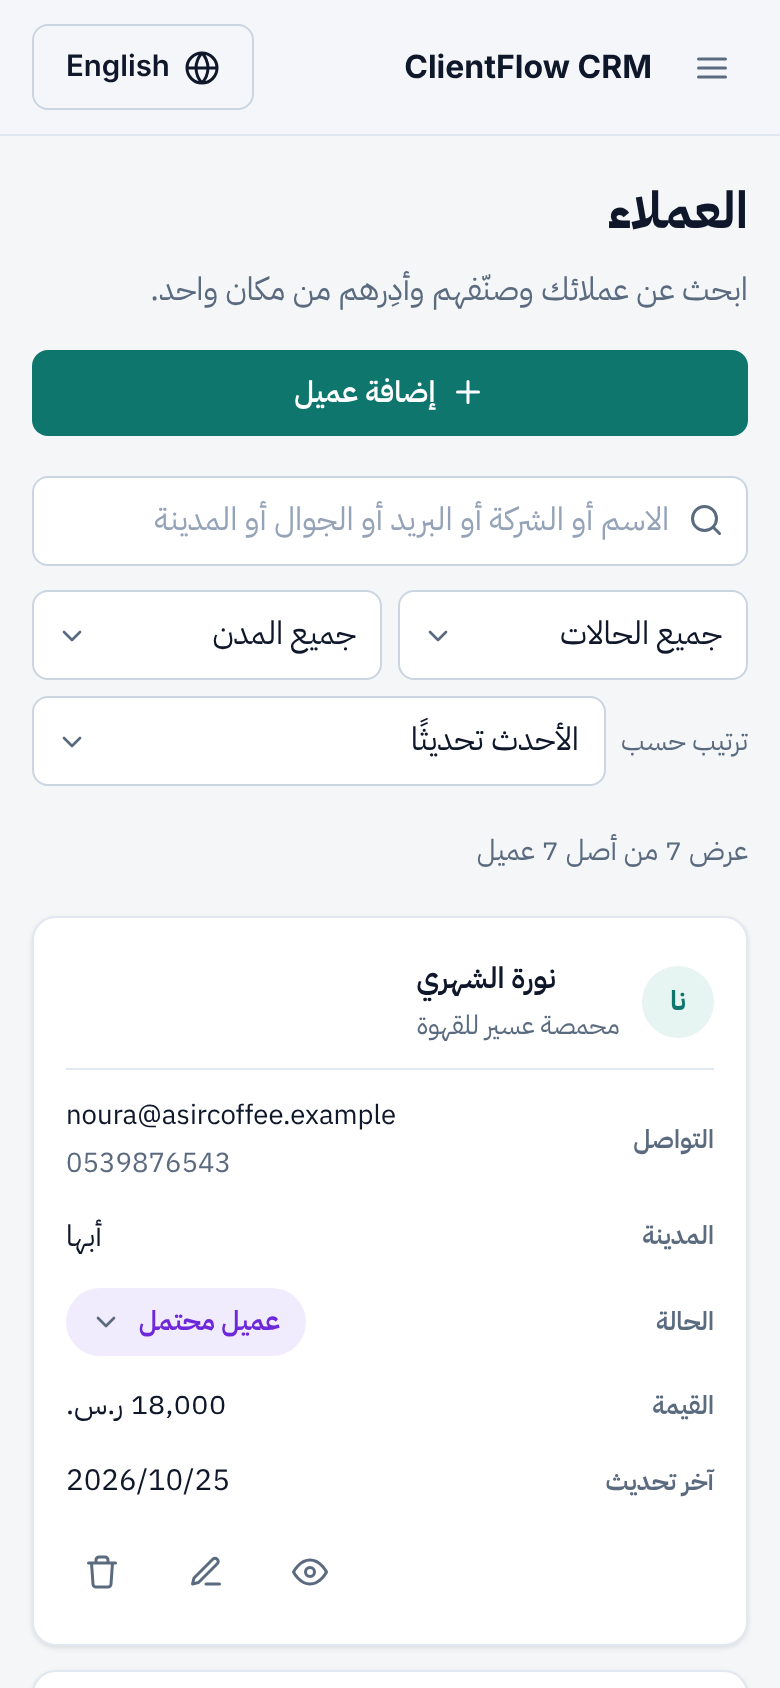
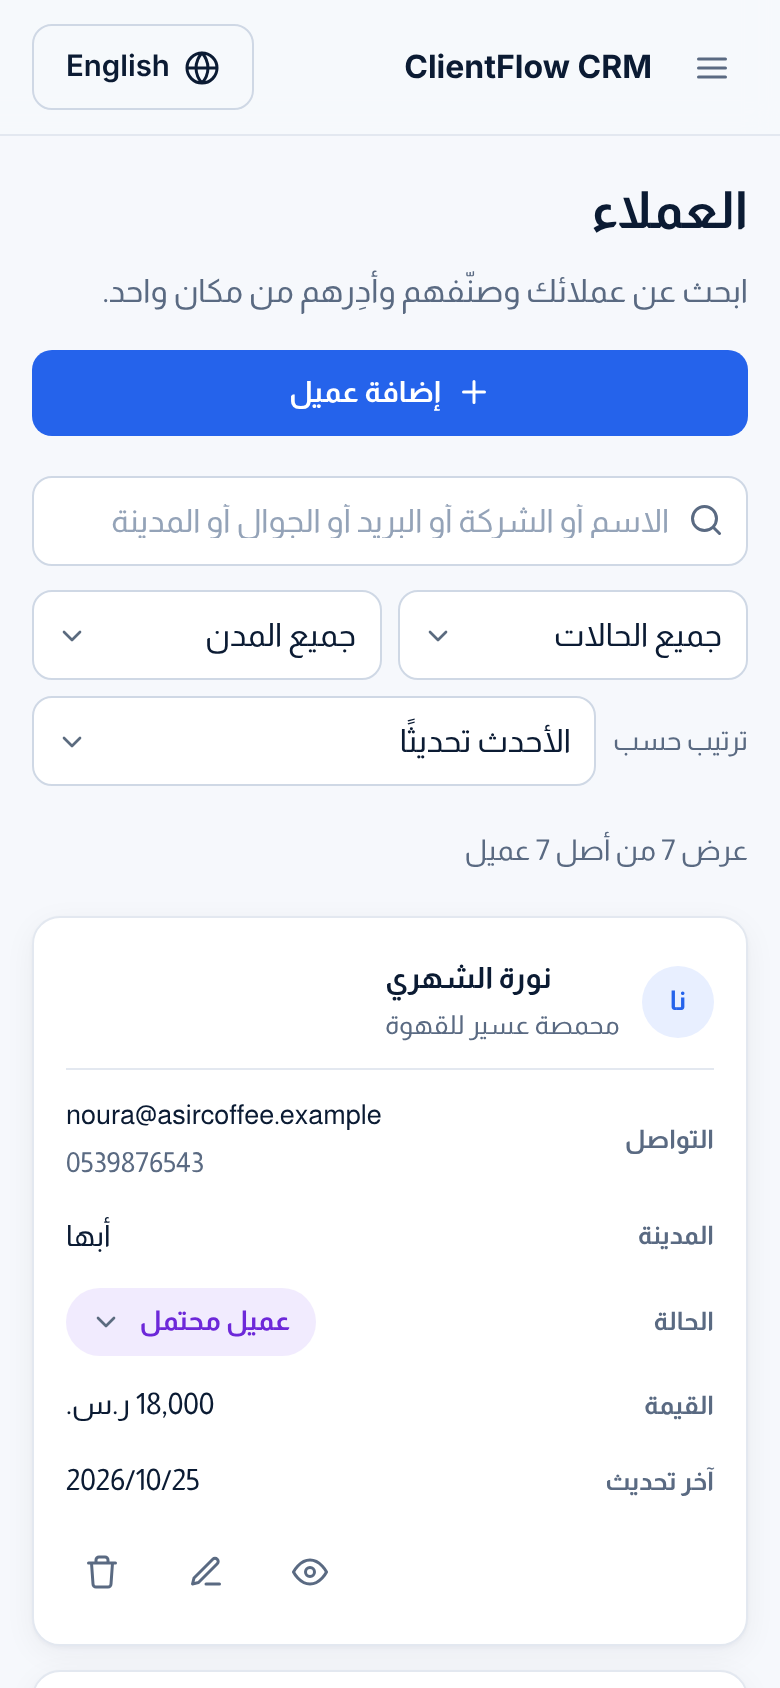
Restyle ClientFlow with the light blue business theme
Blue primary with a white sidebar, Almarai for Arabic, softer neutrals
and a filled headline tile on the dashboard; README screenshots and demo
GIFs regenerated.

diff --git a/src/index.css b/src/index.css
@@ -4,18 +4,20 @@
 
 :root {
   --font-latin: 'Inter', system-ui, -apple-system, 'Segoe UI', Roboto, 'Helvetica Neue', Arial, sans-serif;
-  --font-arabic: 'IBM Plex Sans Arabic', 'Noto Sans Arabic', 'Segoe UI', Tahoma, 'Geeza Pro', 'Arial', sans-serif;
+  --font-arabic: 'Almarai', 'Noto Sans Arabic', 'Segoe UI', Tahoma, 'Geeza Pro', 'Arial', sans-serif;
 
-  --bg: #f4f6f8;
+  --bg: #f6f8fc;
   --surface: #ffffff;
-  --surface-muted: #f8fafb;
-  --border: #e2e8f0;
-  --border-strong: #cbd5e1;
-  --text: #0f172a;
-  --text-muted: #5b6b7f;
-  --primary: #0f766e;
-  --primary-hover: #0d5f59;
-  --primary-soft: #e6f4f2;
+  --surface-muted: #f4f7fb;
+  --border: #e3e8f0;
+  --border-strong: #cfd8e5;
+  --text: #0b1b33;
+  --text-muted: #5a6a82;
+  --primary: #2563eb;
+  --primary-hover: #1d4ed8;
+  --primary-soft: #e8efff;
+  /* Navy wash used by the highlighted dashboard tile. */
+  --primary-deep: #1e3a8a;
   --danger: #c0262d;
   --danger-hover: #a11d23;
   --danger-soft: #fdecec;
@@ -30,9 +32,9 @@
   --inactive: #64748b;
   --inactive-soft: #eef1f5;
 
-  --radius: 12px;
-  --radius-sm: 8px;
-  --shadow: 0 1px 2px rgb(15 23 42 / 0.05), 0 1px 3px rgb(15 23 42 / 0.06);
+  --radius: 14px;
+  --radius-sm: 10px;
+  --shadow: 0 1px 2px rgb(16 24 40 / 0.04), 0 4px 16px rgb(16 24 40 / 0.05);
   --shadow-lg: 0 10px 30px rgb(15 23 42 / 0.16);
   --sidebar-width: 256px;
 
@@ -104,8 +106,9 @@ h1:focus, main:focus { outline: none; }
   inline-size: var(--sidebar-width);
   block-size: 100vh;
   padding: 1.25rem 1rem;
-  background: #0b2e2b;
-  color: #d7ebe8;
+  background: var(--surface);
+  color: var(--text-muted);
+  border-inline-end: 1px solid var(--border);
   flex-shrink: 0;
 }
 .sidebar__brand { display: flex; align-items: center; gap: 0.75rem; }
@@ -113,30 +116,28 @@ h1:focus, main:focus { outline: none; }
   display: grid; place-items: center;
   inline-size: 40px; block-size: 40px;
   border-radius: 10px;
-  background: #14b8a6; color: #04201d;
+  background: var(--primary); color: #fff;
   font-weight: 700; font-family: var(--font-latin);
 }
-.brand-name { font-weight: 700; color: #fff; font-family: var(--font-latin); }
-.brand-tagline { font-size: 0.78rem; color: #9cc5bf; }
+.brand-name { font-weight: 700; color: var(--text); font-family: var(--font-latin); }
+.brand-tagline { font-size: 0.78rem; color: var(--text-muted); }
 .icon-btn.sidebar__close { display: none; margin-inline-start: auto; color: inherit; }
 .nav-list { display: flex; flex-direction: column; gap: 0.25rem; }
 .nav-link {
   display: flex; align-items: center; gap: 0.75rem;
   padding: 0.65rem 0.85rem;
   border-radius: var(--radius-sm);
-  color: #d7ebe8;
+  color: var(--text-muted);
   text-decoration: none;
   font-weight: 500;
 }
-.nav-link:hover { background: rgb(255 255 255 / 0.08); }
+.nav-link:hover { background: var(--surface-muted); }
 .nav-link--active {
-  background: rgb(20 184 166 / 0.18);
-  color: #fff;
-  box-shadow: inset 3px 0 0 #14b8a6;
+  background: var(--primary-soft);
+  color: var(--primary-hover);
+  font-weight: 700;
 }
-/* The active indicator sits on the inline-start edge in both directions. */
-[dir='rtl'] .nav-link--active { box-shadow: inset -3px 0 0 #14b8a6; }
-.sidebar__note { margin-block-start: auto; font-size: 0.78rem; color: #9cc5bf; }
+.sidebar__note { margin-block-start: auto; font-size: 0.78rem; color: var(--text-muted); }
 
 .shell__main { flex: 1; min-inline-size: 0; display: flex; flex-direction: column; }
 
@@ -144,7 +145,7 @@ h1:focus, main:focus { outline: none; }
   position: sticky; inset-block-start: 0; z-index: 10;
   display: flex; align-items: center; gap: 0.75rem;
   padding: 0.75rem 1.5rem;
-  background: rgb(244 246 248 / 0.9);
+  background: rgb(246 248 252 / 0.9);
   backdrop-filter: blur(8px);
   border-block-end: 1px solid var(--border);
 }
@@ -243,8 +244,19 @@ h1:focus, main:focus { outline: none; }
 }
 .stat-card__icon {
   display: grid; place-items: center;
-  inline-size: 40px; block-size: 40px; border-radius: 10px;
+  inline-size: 40px; block-size: 40px; border-radius: 12px;
   background: var(--primary-soft); color: var(--primary);
+}
+/* The headline figure gets the filled treatment; the rest stay plain cards. */
+.stats-grid > .stat-card:first-child {
+  background: linear-gradient(135deg, var(--primary), var(--primary-deep));
+  border-color: transparent;
+  color: #fff;
+}
+.stats-grid > .stat-card:first-child .stat-card__label,
+.stats-grid > .stat-card:first-child .stat-card__hint { color: #dbe6ff; }
+.stats-grid > .stat-card:first-child .stat-card__icon {
+  background: rgb(255 255 255 / 0.18); color: #fff;
 }
 .stat-card__label { color: var(--text-muted); font-size: 0.86rem; font-weight: 500; }
 .stat-card__value { font-size: 1.5rem; font-weight: 700; font-variant-numeric: tabular-nums; }

diff --git a/index.html b/index.html
@@ -4,12 +4,12 @@
     <meta charset="UTF-8" />
     <meta name="viewport" content="width=device-width, initial-scale=1.0" />
     <meta name="description" content="ClientFlow CRM — a bilingual (Arabic / English) customer management prototype built with React, TypeScript and Vite." />
-    <meta name="theme-color" content="#0f766e" />
+    <meta name="theme-color" content="#2563eb" />
     <link rel="icon" type="image/svg+xml" href="./favicon.svg" />
     <link rel="preconnect" href="https://fonts.googleapis.com" />
     <link rel="preconnect" href="https://fonts.gstatic.com" crossorigin />
     <link
-      href="https://fonts.googleapis.com/css2?family=IBM+Plex+Sans+Arabic:wght@400;500;600;700&family=Inter:wght@400;500;600;700&display=swap"
+      href="https://fonts.googleapis.com/css2?family=Almarai:wght@400;700;800&family=Inter:wght@400;500;600;700&display=swap"
       rel="stylesheet"
     />
     <title>ClientFlow CRM</title>
